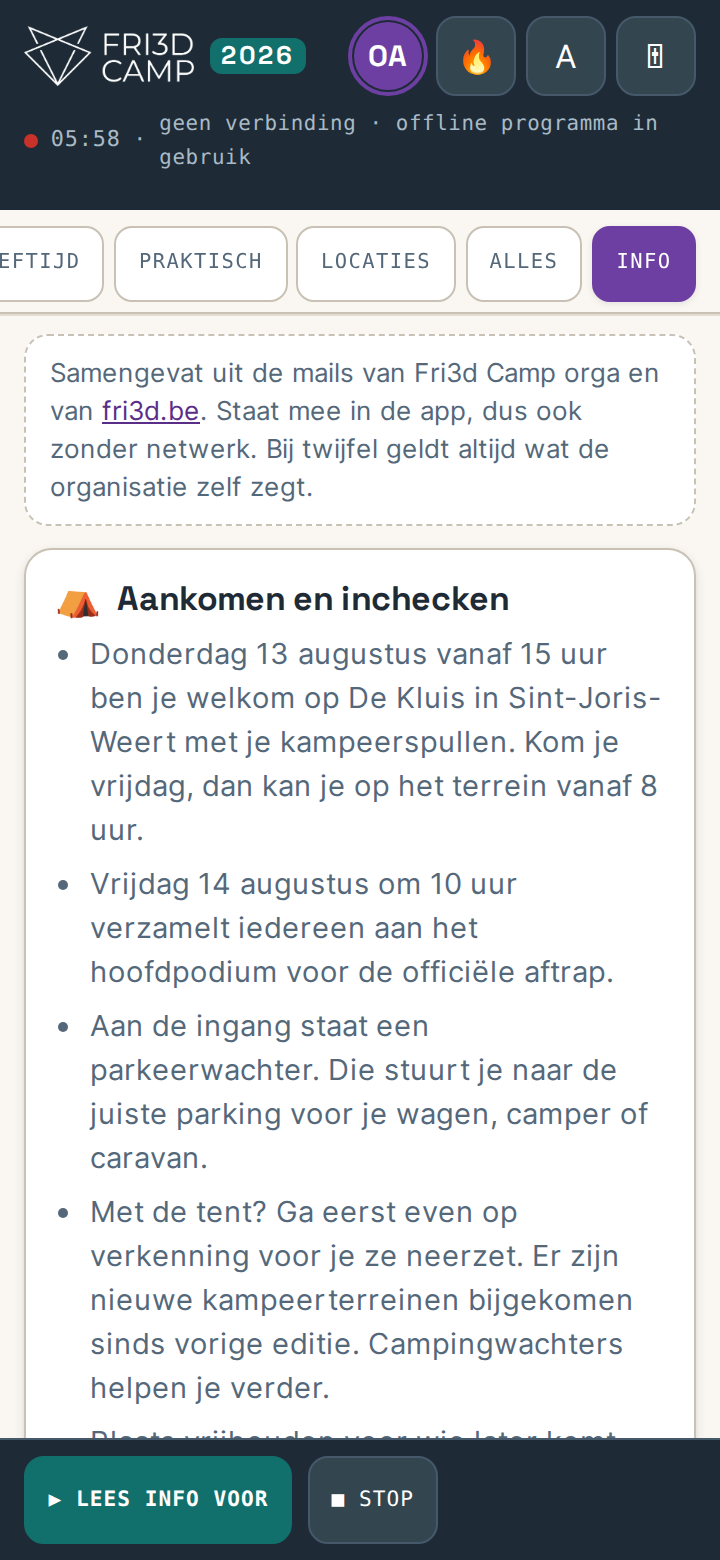
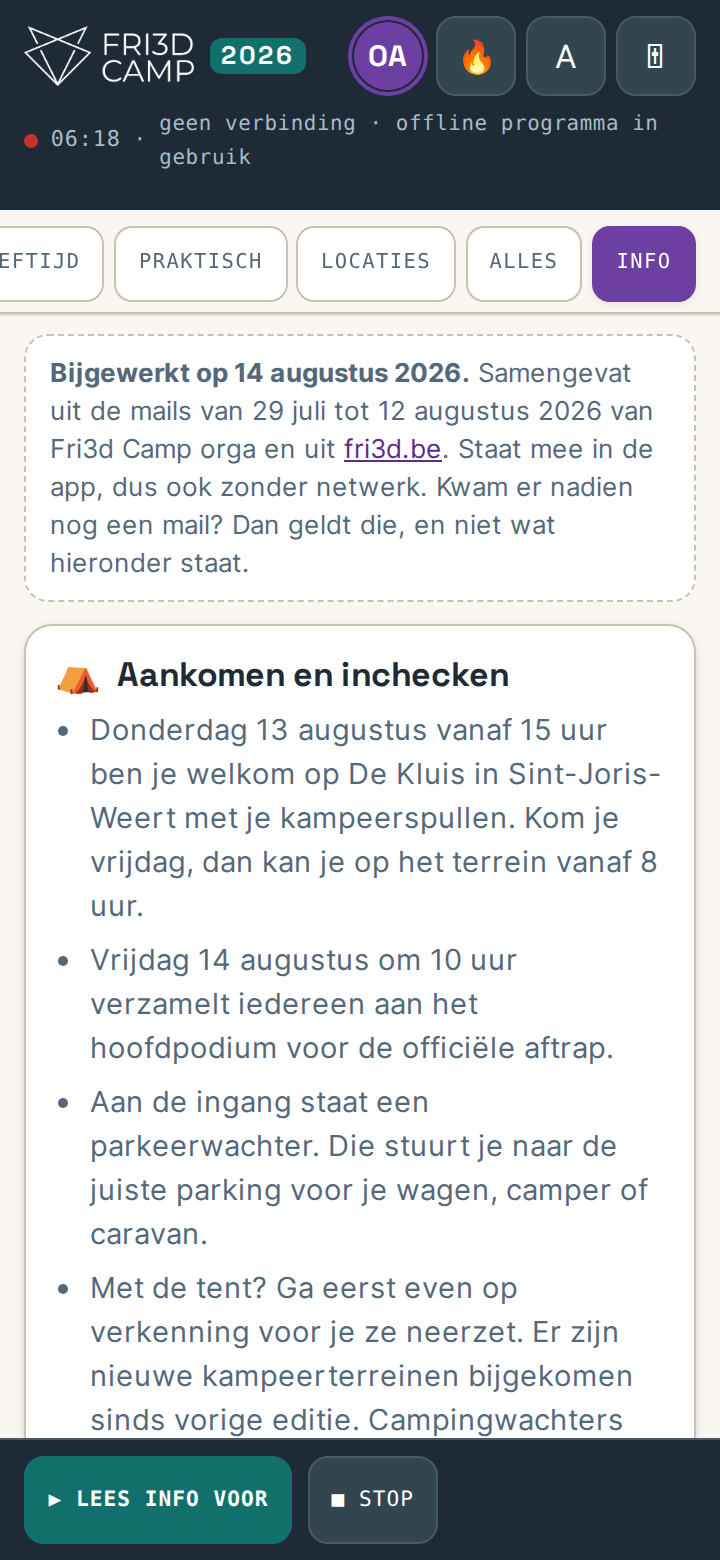
Info: zeggen tot wanneer de informatie loopt
Zonder datum is een samenvatting van andermans communicatie riskant: ze blijft
er even stellig uitzien wanneer de organisatie ondertussen iets anders gezegd
heeft. Bovenaan het tabblad staat nu tot wanneer ze loopt en waarop ze gebaseerd
is, met de melding dat een nieuwere mail altijd voorgaat. Dezelfde datum zit in
de gesproken inleiding, want wie laat voorlezen ziet dat kader niet.

Twee constanten, INFO_BIJGEWERKT en INFO_BRON, boven de lijst INFO. Wie de
informatie bijwerkt past ze aan; de README zegt dat er nu bij.

Changed region(s): [[0.0306, 0.2154, 0.9167, 0.9231], [0.9472, 0.3385, 0.9778, 0.4], [0.1222, 0.0615, 0.1528, 0.0923]]

diff --git a/build/app.template.html b/build/app.template.html
@@ -757,6 +757,10 @@ function renderBanner(){
 /* ---------- Kampinfo ----------
    Samengevat uit de mails van Fri3d Camp orga (29/7 – 12/8/2026) en fri3d.be.
    Staat volledig in dit bestand, dus ook zonder netwerk beschikbaar. */
+/* Wanneer deze informatie voor het laatst is nagekeken, en tot welke mail ze
+   loopt. Aanpassen zodra er nieuwe communicatie binnenkomt. */
+const INFO_BIJGEWERKT = "14 augustus 2026";
+const INFO_BRON = "de mails van 29 juli tot 12 augustus 2026";
 const INFO = [
  {i:"⛺", t:"Aankomen en inchecken", l:[
   "Donderdag 13 augustus vanaf 15 uur ben je welkom op De Kluis in Sint-Joris-Weert met je kampeerspullen. Kom je vrijdag, dan kan je op het terrein vanaf 8 uur.",
@@ -848,9 +852,11 @@ const INFO = [
 function infoText(b){ return b.t + ". " + b.l.join(" "); }
 function renderInfo(){
   $("#infoPanel").innerHTML =
-    `<p class="infonote">Samengevat uit de mails van Fri3d Camp orga en van
+    `<p class="infonote"><b>Bijgewerkt op ${esc(INFO_BIJGEWERKT)}.</b>
+      Samengevat uit ${esc(INFO_BRON)} van Fri3d Camp orga en uit
       <a href="https://fri3d.be/" target="_blank" rel="noopener">fri3d.be</a>. Staat mee in de app,
-      dus ook zonder netwerk. Bij twijfel geldt altijd wat de organisatie zelf zegt.</p>` +
+      dus ook zonder netwerk. Kwam er nadien nog een mail? Dan geldt die, en niet
+      wat hieronder staat.</p>` +
     INFO.map((b,i)=>
       `<article class="card ic" data-k="info:${i}">`
       + `<h3><span class="em" aria-hidden="true">${b.i}</span>${esc(b.t)}</h3>`
@@ -1806,7 +1812,7 @@ $("#btnReadAll").onclick = ()=>{
   if(!synth){ $("#readStatus").textContent="geen spraak beschikbaar"; return }
   if(st.cat === "info"){
     stopSpeak(); queue = INFO.map((b,i)=>({k:`info:${i}`, txt:infoText(b)})); qi=0;
-    const kop = utter(`Kampinfo. ${queue.length} onderdelen.`);
+    const kop = utter(`Kampinfo, bijgewerkt op ${INFO_BIJGEWERKT}. ${queue.length} onderdelen.`);
     kop.onend = runQueue; kop.onerror = runQueue; synth.speak(kop); return;
   }
   stopSpeak(); queue = filtered().slice(0,40); qi=0;

diff --git a/public/index.html b/public/index.html
@@ -757,6 +757,10 @@ function renderBanner(){
 /* ---------- Kampinfo ----------
    Samengevat uit de mails van Fri3d Camp orga (29/7 – 12/8/2026) en fri3d.be.
    Staat volledig in dit bestand, dus ook zonder netwerk beschikbaar. */
+/* Wanneer deze informatie voor het laatst is nagekeken, en tot welke mail ze
+   loopt. Aanpassen zodra er nieuwe communicatie binnenkomt. */
+const INFO_BIJGEWERKT = "14 augustus 2026";
+const INFO_BRON = "de mails van 29 juli tot 12 augustus 2026";
 const INFO = [
  {i:"⛺", t:"Aankomen en inchecken", l:[
   "Donderdag 13 augustus vanaf 15 uur ben je welkom op De Kluis in Sint-Joris-Weert met je kampeerspullen. Kom je vrijdag, dan kan je op het terrein vanaf 8 uur.",
@@ -848,9 +852,11 @@ const INFO = [
 function infoText(b){ return b.t + ". " + b.l.join(" "); }
 function renderInfo(){
   $("#infoPanel").innerHTML =
-    `<p class="infonote">Samengevat uit de mails van Fri3d Camp orga en van
+    `<p class="infonote"><b>Bijgewerkt op ${esc(INFO_BIJGEWERKT)}.</b>
+      Samengevat uit ${esc(INFO_BRON)} van Fri3d Camp orga en uit
       <a href="https://fri3d.be/" target="_blank" rel="noopener">fri3d.be</a>. Staat mee in de app,
-      dus ook zonder netwerk. Bij twijfel geldt altijd wat de organisatie zelf zegt.</p>` +
+      dus ook zonder netwerk. Kwam er nadien nog een mail? Dan geldt die, en niet
+      wat hieronder staat.</p>` +
     INFO.map((b,i)=>
       `<article class="card ic" data-k="info:${i}">`
       + `<h3><span class="em" aria-hidden="true">${b.i}</span>${esc(b.t)}</h3>`
@@ -1806,7 +1812,7 @@ $("#btnReadAll").onclick = ()=>{
   if(!synth){ $("#readStatus").textContent="geen spraak beschikbaar"; return }
   if(st.cat === "info"){
     stopSpeak(); queue = INFO.map((b,i)=>({k:`info:${i}`, txt:infoText(b)})); qi=0;
-    const kop = utter(`Kampinfo. ${queue.length} onderdelen.`);
+    const kop = utter(`Kampinfo, bijgewerkt op ${INFO_BIJGEWERKT}. ${queue.length} onderdelen.`);
     kop.onend = runQueue; kop.onerror = runQueue; synth.speak(kop); return;
   }
   stopSpeak(); queue = filtered().slice(0,40); qi=0;

diff --git a/README.md b/README.md
@@ -311,6 +311,11 @@ lijst zinnen, en een lijst links als `["tekst", "url"]`. Voeg een blok toe of
 haal er een weg, bouw opnieuw, klaar — de voorleesknoppen en de knop *Lees info
 voor* volgen vanzelf.
 
+Zet er `INFO_BIJGEWERKT` en `INFO_BRON` boven op de juiste waarde. Die twee
+verschijnen in het kader bovenaan het tabblad en in de gesproken inleiding, zodat
+een deelnemer meteen ziet tot wanneer de informatie loopt. Vergeet je dat, dan
+staat er met evenveel stelligheid iets van vorige maand.
+
 Twee dingen om in gedachten te houden. Schrijf **volle zinnen**: ze worden ook
 hardop voorgelezen, dus "vanaf 15u" wordt beter "vanaf 15 uur". En zet er nooit
 links uit een nieuwsbrief in: die lopen doorgaans via een tracker en bevatten

diff --git a/CHANGELOG.md b/CHANGELOG.md
@@ -15,6 +15,9 @@ Een tabblad Info, zodat niemand nog in zijn mails hoeft te zoeken.
   het e-mailadres van de ontvanger.
 - De informatie zit in het bestand ingebakken, dus ze werkt ook zonder netwerk.
   Precies wanneer je ze nodig hebt: op een veld, zonder bereik.
+- Bovenaan het tabblad staat tot wanneer de informatie loopt en waarop ze
+  gebaseerd is, met de melding dat een nieuwere mail altijd voorgaat. Dezelfde
+  datum hoor je in de gesproken inleiding.
 
 ## 1.1.0 — augustus 2026
 
